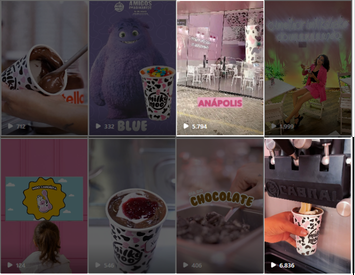
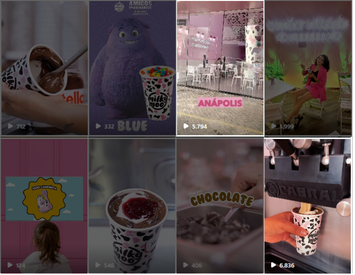
Add real-size lightbox for prova social screenshots + fix flattened corners
Tekoá ads table and Milkmoo content-grid screenshots (the only real
screenshots in the "melhores resultados" prova panel) now open in a
full-screen lightbox on click/tap, shown at native resolution capped to
the viewport — so visitors can actually read the numbers.

Also re-exported the Milkmoo images keeping their alpha channel: they'd
been flattened onto a flat gray background, which showed as a visible
gray box behind the screenshots' rounded corners. Added a full,
un-cropped Tekoá ads table image for the lightbox (the inline card still
uses the cropped/focused strip).

Changed region(s): [[0.9915, 0.0, 1.0, 1.0]]

diff --git a/index.html b/index.html
@@ -246,6 +246,7 @@ section{scroll-margin-top:92px}
 .prova-milkmoo-grades{display:flex;gap:10px}
 .prova-milkmoo-grades img{width:50%;border-radius:14px;box-shadow:var(--sombra);display:block}
 .prova-milkmoo b{color:#fff;font-size:1.05rem;font-weight:800}
+.prova-dica{display:block;margin-top:2px;font-size:.68rem;color:rgba(255,255,255,.5)}
 @media (max-width:640px){.prova-ads-realce{box-shadow:0 0 0 999px rgba(20,25,16,.5)}}
 .rc-seta{position:absolute;top:42%;width:40px;height:40px;border-radius:50%;background:#fff;border:1px solid var(--linha);box-shadow:var(--sombra);display:grid;place-items:center;font-size:1.3rem;cursor:pointer;z-index:2;color:var(--tinta);padding:0;line-height:1}
 .rc-seta:hover{background:var(--gelo)}
@@ -288,6 +289,9 @@ section{scroll-margin-top:92px}
 .vm-caixa{display:flex;flex-direction:column;align-items:center;gap:12px;max-width:100%}
 .vm-player{width:min(88vw,calc(68vh * .5625));aspect-ratio:9/16;background:#000;border-radius:18px;overflow:hidden}
 .vm-player iframe{display:block;width:100%;height:100%;border:0}
+.ilb{position:fixed;inset:0;z-index:260;display:grid;place-items:center;padding:14px;background:rgba(15,18,10,.92);overflow:auto}
+.ilb img{display:block;max-width:min(94vw,1100px);max-height:90vh;width:auto;height:auto;border-radius:14px;box-shadow:0 20px 60px rgba(0,0,0,.5)}
+.ampliavel{cursor:zoom-in}
 .vm-info{display:flex;flex-wrap:wrap;align-items:center;justify-content:center;gap:8px 14px;color:#fff;text-align:center}
 .vm-info b{display:block;font-size:1.05rem;line-height:1.2}
 .vm-info span{display:block;font-size:.9rem;opacity:.85}
@@ -632,6 +636,12 @@ body.trava{overflow:hidden}
       <a class="btn btn-primario" id="vmCta" href="#contato"></a>
     </div>
   </div>
+</div>
+
+<!-- PRINT AMPLIADO (prova social em tamanho real) -->
+<div class="ilb" id="ilb" role="dialog" aria-modal="true" aria-label="Imagem ampliada" hidden>
+  <button class="lb-btn lb-fechar" id="ilbFechar" type="button" aria-label="Fechar imagem" data-i18n-aria="modal.fecharImg" style="position:absolute;top:14px;right:14px;width:48px;height:48px;border-radius:50%;border:0;background:rgba(255,255,255,.18);color:#fff;font-size:1.8rem;line-height:1;cursor:pointer">&times;</button>
+  <img id="ilbImg" src="" alt="">
 </div>
 
 <script>
@@ -1091,6 +1101,27 @@ $("#vmFechar").addEventListener("click", vmFechar);
 vm.addEventListener("click", e => { if (e.target === vm) vmFechar(); });
 document.addEventListener("keydown", e => { if (!vm.hidden && e.key === "Escape") vmFechar(); });
 
+/* Print da prova social ampliado: abre a imagem em tamanho real (até caber na tela) */
+const ilb = $("#ilb"), ilbImg = $("#ilbImg");
+let ilbFoco = null;
+function abrirImagem(src, alt) {
+  ilbFoco = document.activeElement;
+  ilbImg.src = src;
+  ilbImg.alt = alt || "";
+  ilb.hidden = false;
+  document.body.classList.add("trava");
+  $("#ilbFechar").focus();
+}
+function ilbFechar() {
+  ilb.hidden = true;
+  ilbImg.src = "";
+  document.body.classList.remove("trava");
+  if (ilbFoco && ilbFoco.focus) ilbFoco.focus();
+}
+$("#ilbFechar").addEventListener("click", ilbFechar);
+ilb.addEventListener("click", e => { if (e.target === ilb) ilbFechar(); });
+document.addEventListener("keydown", e => { if (!ilb.hidden && e.key === "Escape") ilbFechar(); });
+
 /* Cartão de vídeo: se tiver id, toca no site; sem id, mostra "em breve". A marca aparece em
    destaque na própria miniatura (selo), sem legenda embaixo. */
 function cartaoVideo(v, i, animar) {
@@ -1249,11 +1280,16 @@ function montarProva(item) {
     const faixas = [[50.6, 32.6], [67.4, 16.0], [84.0, 0.74]];
     const [topPct, botPct] = faixas[p.linha];
     const src = "img/provas/tekoa-ads.png";
-    painel.append(el("div", { class: "prova prova-ads" }, [
+    const srcCompleto = "img/provas/tekoa-ads-full.png";
+    const altTxt = idioma === "en" ? "Tekoá ads table screenshot" : "Print da tabela de anúncios da Tekoá";
+    const bloco = el("div", { class: "prova-ads ampliavel", tabindex: "0", role: "button", "aria-label": idioma === "en" ? "Enlarge screenshot" : "Ampliar print" }, [
       el("img", { class: "prova-ads-base", src, alt: "", loading: "lazy" }),
       el("div", { class: "prova-ads-foco", style: "clip-path:inset(" + topPct + "% 0 " + botPct + "% 0)" }, [el("img", { src, alt: "" })]),
       el("div", { class: "prova-ads-realce", style: "top:" + topPct + "%;bottom:" + botPct + "%" })
-    ]));
+    ]);
+    bloco.addEventListener("click", () => abrirImagem(srcCompleto, altTxt));
+    bloco.addEventListener("keydown", e => { if (e.key === "Enter" || e.key === " ") { e.preventDefault(); abrirImagem(srcCompleto, altTxt); } });
+    painel.append(el("div", { class: "prova" }, [bloco, el("small", { class: "prova-dica", text: idioma === "en" ? "Tap to see full size" : "Toque pra ver em tamanho real" })]));
   } else if (p.tipo === "place") {
     const chips = el("div", { class: "prova-place-chips" }, [
       el("div", { class: "prova-chip" }, [el("b", { text: p.organico }), el("small", { text: idioma === "en" ? "Organic sales" : "Vendas no orgânico" })]),
@@ -1264,9 +1300,17 @@ function montarProva(item) {
     ])));
     painel.append(el("div", { class: "prova prova-place" }, [chips, stats]));
   } else if (p.tipo === "milkmoo") {
+    const altTxt = idioma === "en" ? "Milkmoo content performance screenshot" : "Print do desempenho do conteúdo da Milkmoo";
+    const grade = el("div", { class: "prova-milkmoo-grades" }, p.imgs.map(src => {
+      const img = el("img", { class: "ampliavel", src, alt: altTxt, loading: "lazy", tabindex: "0", role: "button", "aria-label": idioma === "en" ? "Enlarge screenshot" : "Ampliar print" });
+      img.addEventListener("click", () => abrirImagem(src, altTxt));
+      img.addEventListener("keydown", e => { if (e.key === "Enter" || e.key === " ") { e.preventDefault(); abrirImagem(src, altTxt); } });
+      return img;
+    }));
     painel.append(el("div", { class: "prova prova-milkmoo" }, [
-      el("div", { class: "prova-milkmoo-grades" }, p.imgs.map(src => el("img", { src, alt: "", loading: "lazy" }))),
-      el("b", { text: idioma === "en" ? "+5x organic results after the video" : "+5x de resultado orgânico depois do vídeo" })
+      grade,
+      el("b", { text: idioma === "en" ? "+5x organic results after the video" : "+5x de resultado orgânico depois do vídeo" }),
+      el("small", { class: "prova-dica", text: idioma === "en" ? "Tap to see full size" : "Toque pra ver em tamanho real" })
     ]));
   }
 }
@@ -1597,7 +1641,8 @@ const I18N_EN_ARIA = {
   "resultados.prox": "Next result",
   "dep.ant": "Previous testimonial",
   "dep.prox": "Next testimonial",
-  "modal.fechar": "Close video"
+  "modal.fechar": "Close video",
+  "modal.fecharImg": "Close image"
 };
 const PT_HTML = new Map();
 document.querySelectorAll("[data-i18n]").forEach(n => PT_HTML.set(n, n.innerHTML));
